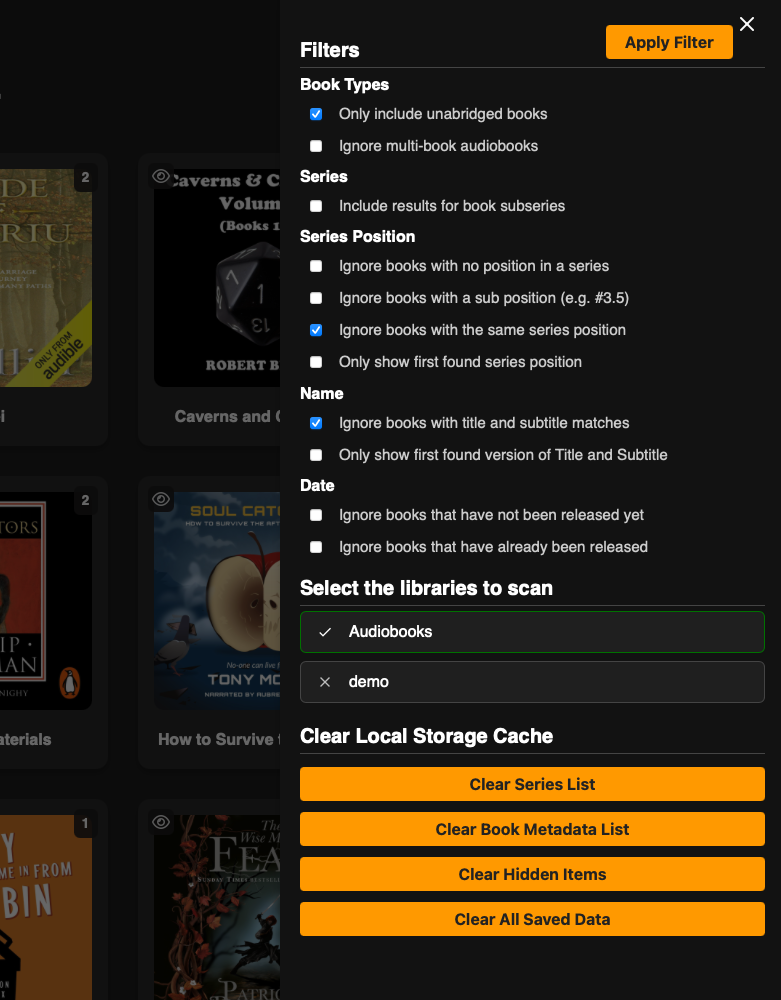
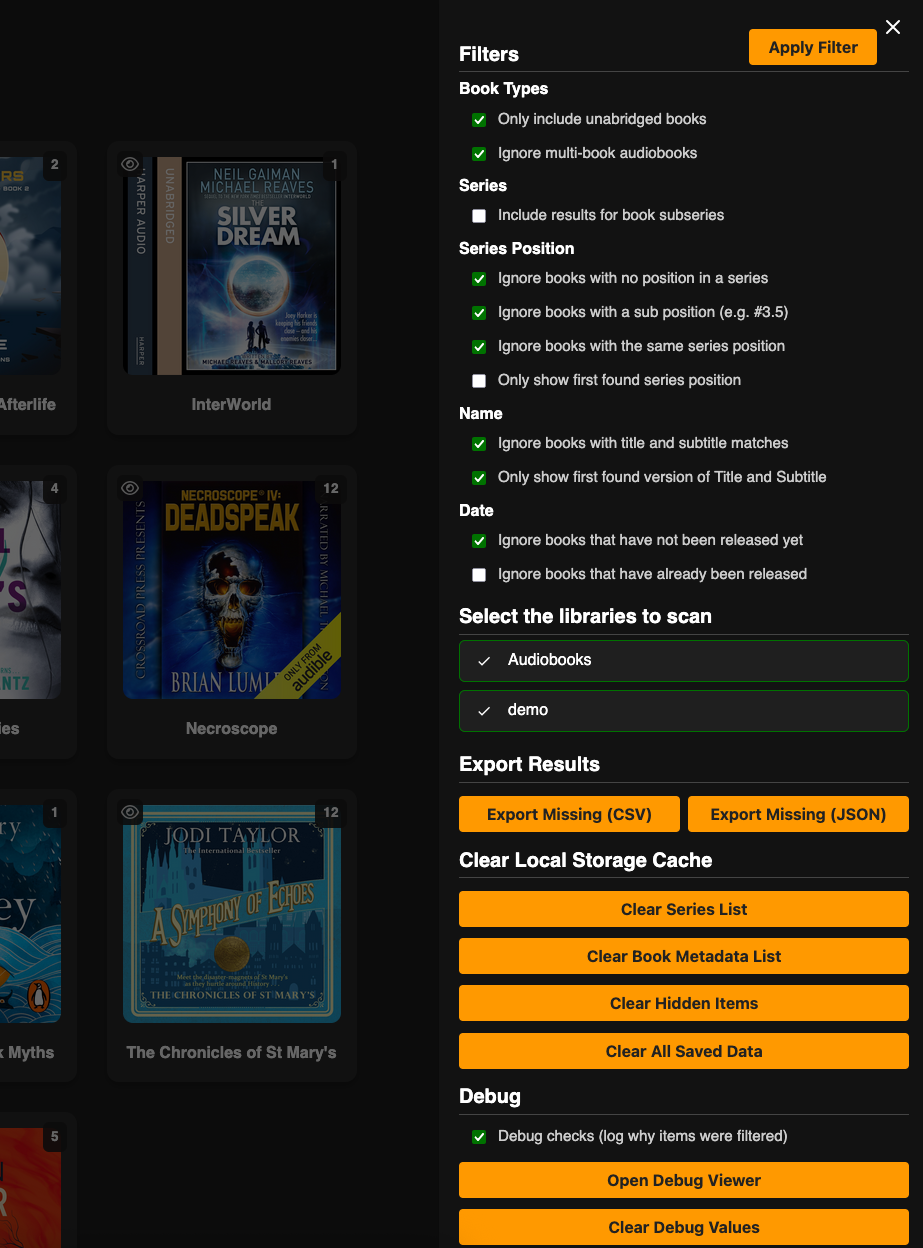
Updated README.md

diff --git a/README.md b/README.md
@@ -62,11 +62,14 @@ You can inspect the full source code in this repository to verify that yourself.
    - Use the 👁 icon to hide series or books permanently.  
    - Hidden items are tracked and can be managed from the sidebar (burger menu).
 
-5. **Apply new filters**  
+7. **Apply new filters**  
    - Change the filters used and get an updated results page without logging in again
    - Clear cached contents to force a new request
 
-6. **Debug Modal**
+8. **Download results**  
+   - Download the results to CSV or Json format
+
+9. **Debug Modal**
    - The Debug Modal provides a detailed, real-time view of your library’s data and applied filters, helping with troubleshooting and understanding the app’s logic.
    - Group results
    - Filter results
@@ -79,8 +82,11 @@ You can inspect the full source code in this repository to verify that yourself.
 |--------|------------|
 | 🏠 Home Page | ![HomePage](https://raw.githubusercontent.com/xFrieDSpuDx/completeseries/refs/heads/main/ExampleImages/HomepageFilterClosed.png) |
 | 🏠 Home Page Filters | ![HomePageFilters](https://raw.githubusercontent.com/xFrieDSpuDx/completeseries/refs/heads/main/ExampleImages/HomepageFilterOpen.png) |
+| 🔑 Home Page API Key Login | ![HomePageFilters](https://raw.githubusercontent.com/xFrieDSpuDx/completeseries/refs/heads/main/ExampleImages/LoginWithAPIKey.png) |
+| 🔀 Home Page Filters | ![HomePageFilters](https://raw.githubusercontent.com/xFrieDSpuDx/completeseries/refs/heads/main/ExampleImages/PHPProxyAndWarning.png) |
 | 📚 Library Selection | ![LibrarySelection](https://raw.githubusercontent.com/xFrieDSpuDx/completeseries/refs/heads/main/ExampleImages/LibrarySelect.png) |
 | 📊 Results Page | ![ResultsPage](https://raw.githubusercontent.com/xFrieDSpuDx/completeseries/refs/heads/main/ExampleImages/ResultsPage.png) |
+| ⏳ Results Loading | ![ResultsPage](https://raw.githubusercontent.com/xFrieDSpuDx/completeseries/refs/heads/main/ExampleImages/ResultsLoadingPlaceholder.png) |
 | 🧰 Filter Results Page | ![FilterResultsPage](https://raw.githubusercontent.com/xFrieDSpuDx/completeseries/refs/heads/main/ExampleImages/FilterOptionsAfterResults.png) |
 | 📚 Book Modal | ![BooksModal](https://raw.githubusercontent.com/xFrieDSpuDx/completeseries/refs/heads/main/ExampleImages/BooksModal.png) |
 | 📖 Book Details | ![BookDetails](https://raw.githubusercontent.com/xFrieDSpuDx/completeseries/refs/heads/main/ExampleImages/BookDetails.png) |
@@ -94,7 +100,7 @@ You can inspect the full source code in this repository to verify that yourself.
 
 ## 📦 Deployment
 
-You can host your own version or use the one at [https://completeseries.lily-pad.uk](https://completeseries.lily-pad.uk). The project is as client-side as possible, however AudiobookShelf login and audimeta proxy components rely on PHP to stop CORS issues.
+You can host your own version or use the one at [https://completeseries.lily-pad.uk](https://completeseries.lily-pad.uk). The project is as client-side as possible, however older AudiobookShelf installs and certain setups rely on PHP to stop CORS issues. By default the application tries to use JavaScript but does give the option to fallback to using a PHP proxy if needed. The proxy option is found in the advanced section of the home page.
 
 ---
 
